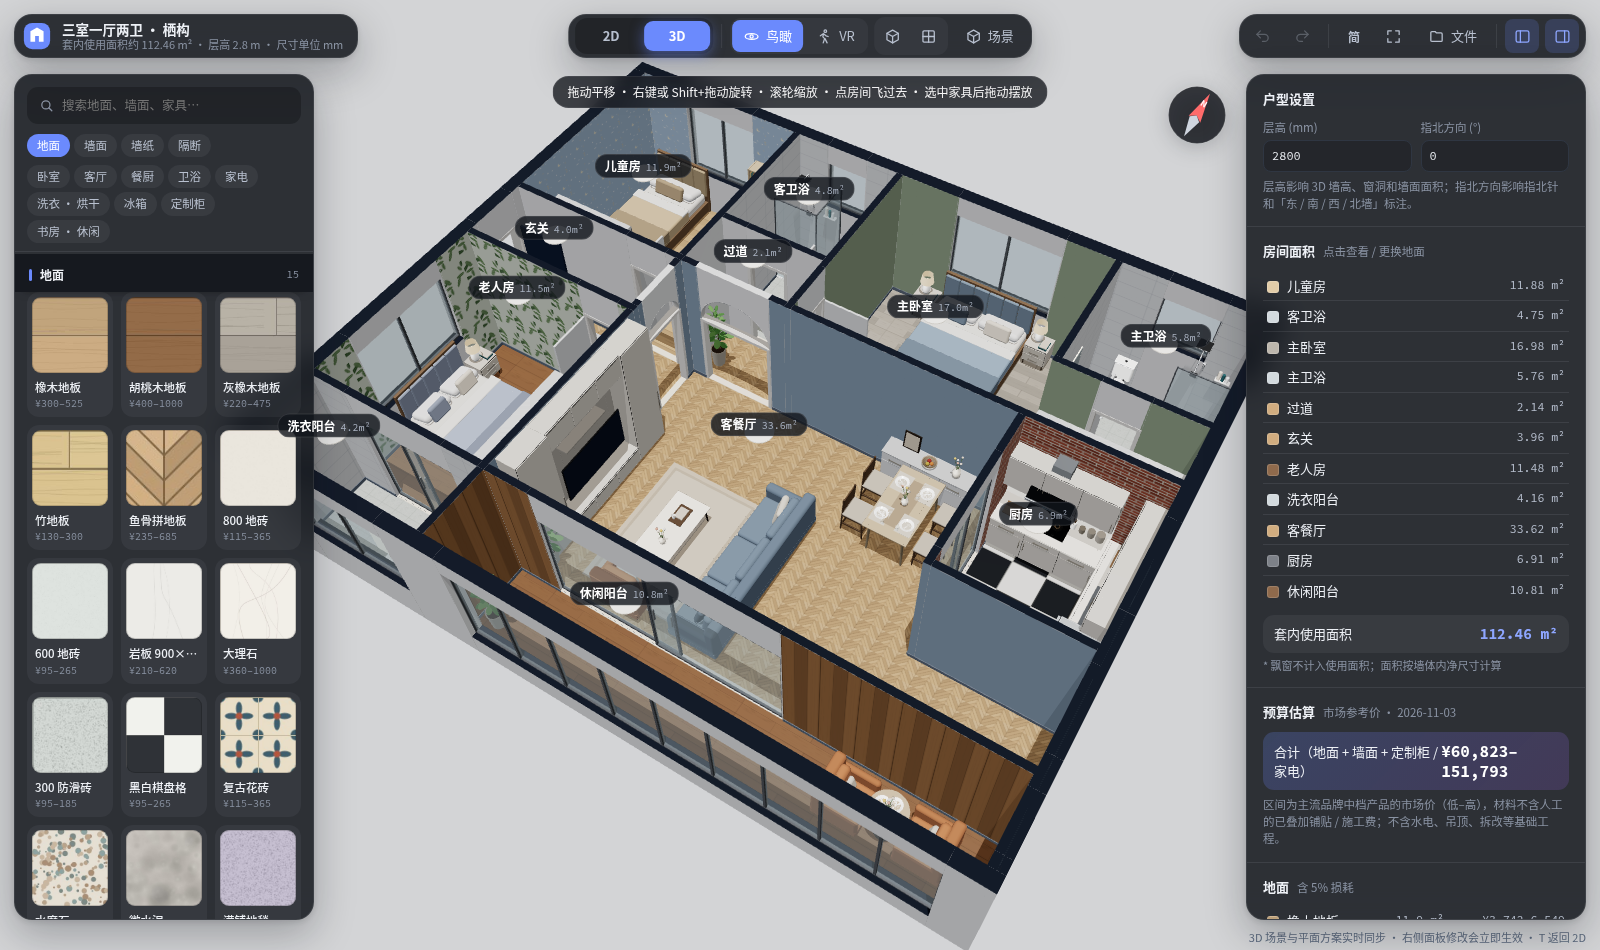
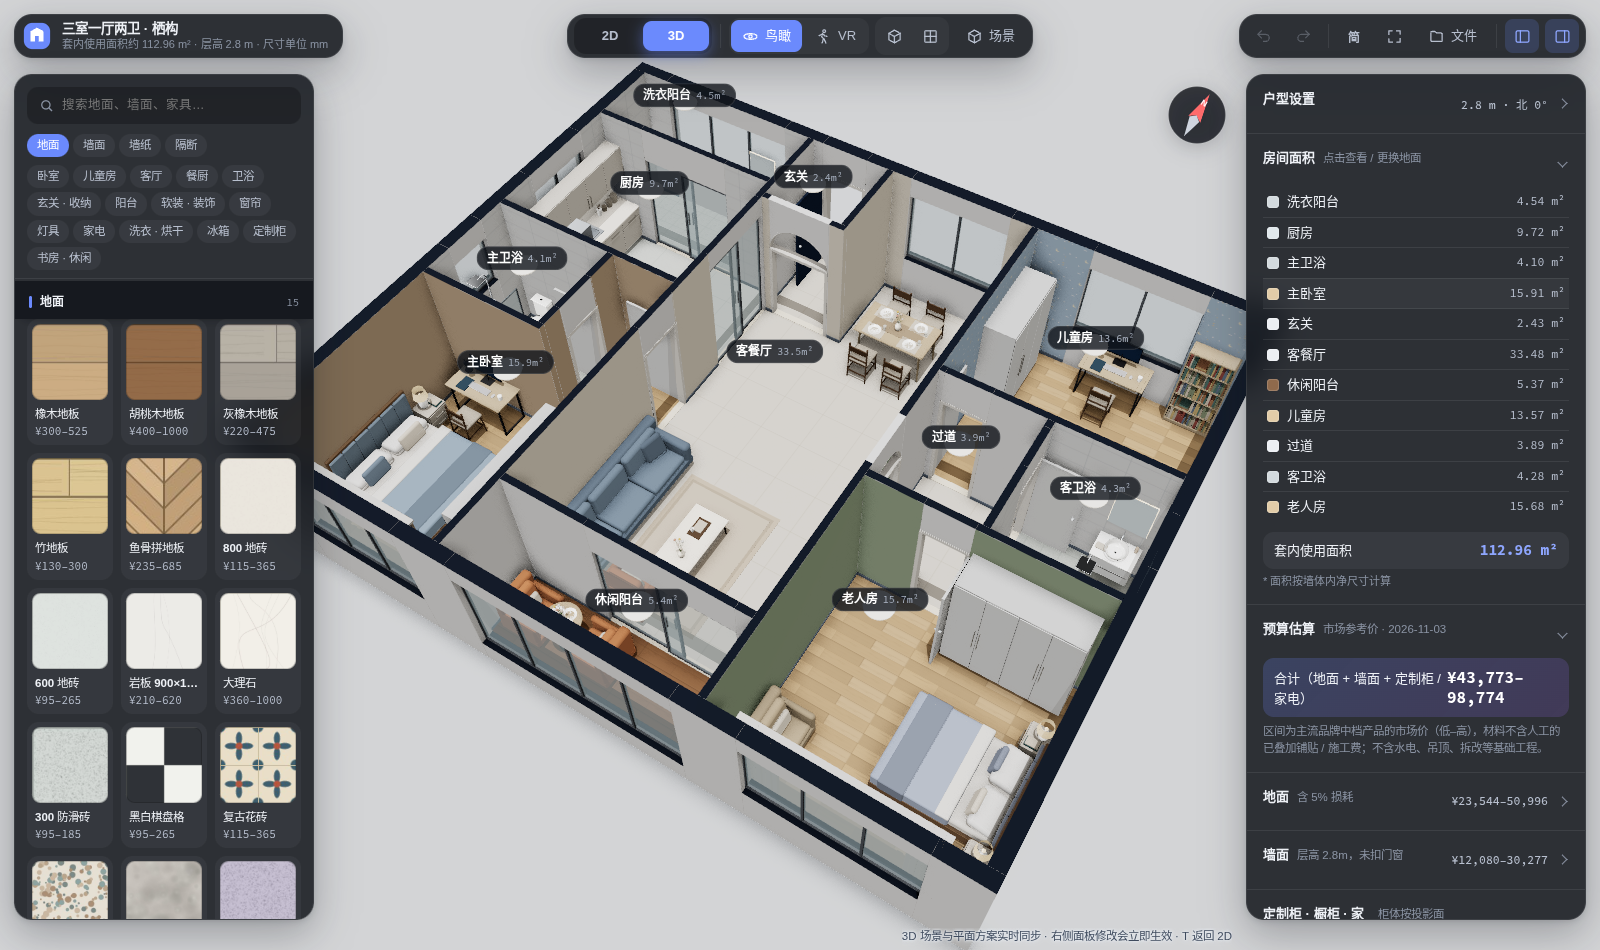
重新设计默认户型；检查不再把台面上的水槽 / 灶台报成重叠
- 主卧、客厅、老人房朝南；入户门改到北墙，玄关不再开卧室门
- 厨房紧挨玄关，洗衣阳台从厨房进，不再穿过卧室
- 东侧小过道连接儿童房、老人房和客卫；客卫门与过道口错开，从客餐厅看不到
- 家具重摆：通道留足净宽，床头不在窗下，餐椅能拉开，推拉门前不堆东西
- 默认方案加上窗帘、油烟机、晾衣架、餐厅吊灯和几面墙的颜色
- 重拍 README 截图

diff --git a/src/data.js b/src/data.js
@@ -1,9 +1,12 @@
 
 /* ============================================================
  *  默认户型（单位 mm，原点 = 左上角外墙内皮；x 向右、y 向下，上北下南）
- *  约 100 m²：三室 + 客餐厅 + 两卫 + 玄关 + 洗衣阳台 + 南向休闲阳台
- *  横向：3300 | 120 | 1980 | 120 | 3960 | 120 | 2400 = 12000
- *  纵向：3600 | 120 | 1200 | 120 | 3480 | 120 | 1260 = 9900（西侧）
+ *  套内约 113 m²：三室 + 客餐厅 + 两卫 + 玄关 + 洗衣阳台 + 南向阳台
+ *  西列（3600）：洗衣阳台 / 厨房 / 主卫 / 主卧（朝南）
+ *  中列（4260）：玄关（北墙入户）+ 餐区 / 客厅 / 阳台（朝南）
+ *  东列（3900）：儿童房 / 过道 + 客卫 / 老人房（朝南）
+ *  横向：3600 | 120 | 1500 | 120 | 2640 | 120 | 3900 = 12000
+ *  纵向：1260 | 120 | 2700 | 120 | 1800 | 120 | 3780 = 9900（西列）；3480 | 120 | 2160 | 120 | 4020 = 9900（东列）
  * ============================================================ */
 const XW = 240;                                                     // 外墙厚
 /** 一段墙去掉洞口后的若干矩形；horiz: 沿 x 方向；[c0, c1] 墙厚方向坐标；holes: 沿墙方向的 [a, b] 洞口 */
@@ -15,10 +18,10 @@ function run(horiz, c0, c1, a0, a1, type, holes = []){
 }
 // 洞口（沿墙方向的区间）
 const H = {
-  top:[[900, 2400], [4000, 4800], [6600, 8600], [10400, 11400]],    // 儿童房 / 客卫 / 主卧 / 主卫 北窗
-  bottom:[[600, 2700], [3800, 11600]],                              // 洗衣阳台 / 休闲阳台 南窗
-  left:[[3900, 4800], [5800, 7800]],                                // 入户门 / 老人房西窗
-  right:[[4300, 6000], [6900, 8300], [8800, 9700]],                 // 厨房 / 客餐厅 / 阳台 东窗
+  top:[[500, 3100], [3900, 4800], [5700, 7600], [9100, 11100]],     // 洗衣阳台北窗 / 入户门 / 餐区北窗 / 儿童房北窗
+  bottom:[[600, 3000], [4000, 7700], [8700, 11400]],                // 主卧 / 阳台 / 老人房 南窗
+  left:[[2000, 3400], [4700, 5500]],                                // 厨房 / 主卫 西窗
+  right:[[4200, 5200]],                                             // 客卫东窗
 };
 // 墙体：[x0,y0,x1,y1,类型]  b=承重 e=外墙 n=可拆非承重 low=矮墙
 export const WALLS = [
@@ -27,64 +30,61 @@ export const WALLS = [
   ...run(true, 9900, 9900 + XW, -XW, 12000 + XW, 'e', H.bottom),
   ...run(false, -XW, 0, 0, 9900, 'e', H.left),
   ...run(false, 12000, 12000 + XW, 0, 9900, 'e', H.right),
-  // 北侧：儿童房 | 客卫 | 主卧 | 主卫
-  [3300, 0, 3420, 3600, 'b'],
-  ...run(true, 2400, 2520, 3420, 5400, 'n', [[3900, 4700]]),         // 客卫门
-  ...run(false, 5400, 5520, 0, 3720, 'b', [[2640, 3480]]),           // 主卧门
-  [9480, 0, 9600, 2400, 'n'],
-  ...run(true, 2400, 2520, 9480, 12000, 'n', [[10300, 11100]]),      // 主卫门（主卧衣帽区进）
-  ...run(true, 3600, 3720, 0, 3420, 'n', [[2300, 3100]]),            // 儿童房门
-  ...run(true, 3600, 3720, 3420, 5400, 'n', [[3700, 5100]]),         // 过道 → 客餐厅 门洞
-  [5520, 3600, 12000, 3720, 'n'],
-  // 西侧：玄关 / 老人房 / 洗衣阳台
-  ...run(false, 3300, 3420, 3720, 4920, 'n', [[3900, 4800]]),        // 玄关 → 客餐厅 门洞
-  ...run(true, 4920, 5040, 0, 3420, 'n', [[2300, 3100]]),            // 老人房门
-  [3300, 5040, 3420, 8640, 'b'],
-  ...run(true, 8520, 8640, 0, 3300, 'n', [[700, 2600]]),             // 洗衣阳台推拉门
-  [3300, 8640, 3420, 9900, 'b'],
-  // 东侧：厨房 / 阳台
-  ...run(false, 9480, 9600, 3720, 6720, 'n', [[4500, 6400]]),        // 厨房推拉门
-  [9600, 6600, 12000, 6720, 'n'],
-  ...run(true, 8520, 8640, 3420, 12000, 'n', [[4200, 8400]]),        // 阳台推拉门
+  // 两道纵向承重墙：西列 | 中列 | 东列
+  ...run(false, 3600, 3720, 0, 9900, 'b', [[1780, 3380], [4400, 5300]]),   // 厨房推拉门 / 主卧门
+  ...run(false, 7980, 8100, 0, 9900, 'b', [[4650, 5650]]),                 // 客餐厅 → 过道 门洞
+  // 西列：洗衣阳台 / 厨房 / 主卫 / 主卧
+  ...run(true, 1260, 1380, 0, 3600, 'n', [[900, 2700]]),             // 洗衣阳台推拉门（从厨房进）
+  [0, 4080, 3600, 4200, 'n'],
+  [0, 6000, 2400, 6120, 'n'],
+  ...run(false, 2280, 2400, 4200, 6000, 'n', [[4800, 5600]]),        // 主卫门（主卧进门过道一侧）
+  // 中列：玄关 / 客餐厅 / 阳台
+  [5220, 0, 5340, 1620, 'n'],
+  ...run(true, 1620, 1740, 3720, 5340, 'n', [[3850, 5050]]),         // 玄关 → 客餐厅 门洞
+  ...run(true, 8520, 8640, 3720, 7980, 'n', [[5200, 7700]]),         // 阳台推拉门
+  // 东列：儿童房 / 过道 + 客卫 / 老人房
+  ...run(true, 3480, 3600, 8100, 12000, 'n', [[8200, 9000]]),        // 儿童房门
+  ...run(true, 5760, 5880, 8100, 12000, 'n', [[9050, 9850]]),        // 老人房门（与儿童房门错开）
+  ...run(false, 9900, 10020, 3600, 5760, 'n', [[3750, 4550]]),       // 客卫门（偏北，从客餐厅看不到）
 ];
 // 窗：[x0,y0,x1,y1, 窗台高 m]
 const win = (horiz, c0, c1, [a, b], sill) => horiz ? [a, c0, b, c1, sill] : [c0, a, c1, b, sill];
 export const WINS = [
-  win(true, -XW, 0, H.top[0], .9), win(true, -XW, 0, H.top[1], 1.4), win(true, -XW, 0, H.top[2], .9), win(true, -XW, 0, H.top[3], 1.4),
-  win(true, 9900, 9900 + XW, H.bottom[0], .9), win(true, 9900, 9900 + XW, H.bottom[1], .5),
-  win(false, -XW, 0, H.left[1], .9),
-  win(false, 12000, 12000 + XW, H.right[0], 1.0), win(false, 12000, 12000 + XW, H.right[1], .9), win(false, 12000, 12000 + XW, H.right[2], .5),
+  win(true, -XW, 0, H.top[0], .9), win(true, -XW, 0, H.top[2], .9), win(true, -XW, 0, H.top[3], .9),
+  win(true, 9900, 9900 + XW, H.bottom[0], .9), win(true, 9900, 9900 + XW, H.bottom[1], .5), win(true, 9900, 9900 + XW, H.bottom[2], .9),
+  win(false, -XW, 0, H.left[0], 1.0), win(false, -XW, 0, H.left[1], 1.4),
+  win(false, 12000, 12000 + XW, H.right[0], 1.4),
 ];
 // 平开门：洞口、铰点、关闭方向、开启方向、门宽（门洞 style:'arch'）
 export const DOORS = [
-  {name:'入户门', rect:[-XW, 3900, 0, 4800], h:[0, 3900], c:[0, 1], o:[1, 0], len:900, entry:true},
-  {name:'儿童房门', rect:[2300, 3600, 3100, 3720], h:[2300, 3600], c:[1, 0], o:[0, -1], len:800},
-  {name:'客卫门', rect:[3900, 2400, 4700, 2520], h:[4700, 2400], c:[-1, 0], o:[0, -1], len:800},
-  {name:'主卧门', rect:[5400, 2640, 5520, 3480], h:[5520, 2640], c:[0, 1], o:[1, 0], len:840},
-  {name:'主卫门', rect:[10300, 2400, 11100, 2520], h:[10300, 2400], c:[1, 0], o:[0, -1], len:800},
-  {name:'老人房门', rect:[2300, 4920, 3100, 5040], h:[2300, 5040], c:[1, 0], o:[0, 1], len:800},
-  {name:'拱形门洞', rect:[3700, 3600, 5100, 3720], h:[3700, 3720], c:[1, 0], o:[0, 1], len:1400, style:'arch'},
-  {name:'拱形门洞', rect:[3300, 3900, 3420, 4800], h:[3420, 3900], c:[0, 1], o:[1, 0], len:900, style:'arch'},
+  {name:'入户门', rect:[3900, -XW, 4800, 0], h:[3900, 0], c:[1, 0], o:[0, 1], len:900, entry:true},
+  {name:'主卧门', rect:[3600, 4400, 3720, 5300], h:[3600, 4400], c:[0, 1], o:[-1, 0], len:900},
+  {name:'主卫门', rect:[2280, 4800, 2400, 5600], h:[2280, 4800], c:[0, 1], o:[-1, 0], len:800},
+  {name:'儿童房门', rect:[8200, 3480, 9000, 3600], h:[8200, 3480], c:[1, 0], o:[0, -1], len:800},
+  {name:'老人房门', rect:[9050, 5760, 9850, 5880], h:[9850, 5880], c:[-1, 0], o:[0, 1], len:800},
+  {name:'客卫门', rect:[9900, 3750, 10020, 4550], h:[10020, 3750], c:[0, 1], o:[1, 0], len:800},
+  {name:'拱形门洞', rect:[3850, 1620, 5050, 1740], h:[3850, 1740], c:[1, 0], o:[0, 1], len:1200, style:'arch'},
+  {name:'拱形门洞', rect:[7980, 4650, 8100, 5650], h:[8100, 4650], c:[0, 1], o:[1, 0], len:1000, style:'arch'},
 ];
 // 推拉门
 export const SLIDES = [
-  {rect:[700, 8520, 2600, 8640], v:false},
-  {rect:[4200, 8520, 8400, 8640], v:false},
-  {rect:[9480, 4500, 9600, 6400], v:true},
+  {rect:[900, 1260, 2700, 1380], v:false},
+  {rect:[5200, 8520, 7700, 8640], v:false},
+  {rect:[3600, 1780, 3720, 3380], v:true},
 ];
 export const R = (x0,y0,x1,y1) => [[x0,y0],[x1,y0],[x1,y1],[x0,y1]];
 export const ROOMS = [
-  {id:'kid', name:'儿童房', poly:R(0, 0, 3300, 3600), mat:'wood', at:[1650, 2300]},
-  {id:'gbath', name:'客卫浴', poly:R(3420, 0, 5400, 2400), mat:'antislip', at:[4400, 1300]},
-  {id:'master', name:'主卧室', poly:[[5520, 0], [9480, 0], [9480, 2520], [12000, 2520], [12000, 3600], [5520, 3600]], mat:'wood', at:[7500, 2600]},
-  {id:'mbath', name:'主卫浴', poly:R(9600, 0, 12000, 2400), mat:'antislip', at:[10800, 1300]},
-  {id:'hall', name:'过道', poly:R(3420, 2520, 5400, 3600), mat:'tile800', at:[4400, 3060]},
-  {id:'foyer', name:'玄关', poly:R(0, 3720, 3300, 4920), mat:'tile800', at:[1300, 4320]},
-  {id:'elder', name:'老人房', poly:R(0, 5040, 3300, 8520), mat:'wood', at:[1650, 5700]},
-  {id:'laundry', name:'洗衣阳台', poly:R(0, 8640, 3300, 9900), mat:'antislip', at:[1100, 9270]},
-  {id:'living', name:'客餐厅', poly:[[3420, 3720], [9480, 3720], [9480, 6720], [12000, 6720], [12000, 8520], [3420, 8520]], mat:'tile800', at:[6400, 6000]},
-  {id:'kitchen', name:'厨房', poly:R(9600, 3720, 12000, 6600), mat:'tile600', at:[10500, 5300]},
-  {id:'balcony', name:'休闲阳台', poly:R(3420, 8640, 12000, 9900), mat:'walnut', at:[6400, 9270]},
+  {id:'laundry', name:'洗衣阳台', poly:R(0, 0, 3600, 1260), mat:'antislip', at:[1150, 330]},
+  {id:'kitchen', name:'厨房', poly:R(0, 1380, 3600, 4080), mat:'tile600', at:[2000, 2600]},
+  {id:'mbath', name:'主卫浴', poly:R(0, 4200, 2280, 6000), mat:'antislip', at:[1300, 5150]},
+  {id:'master', name:'主卧室', poly:[[2400, 4200], [3600, 4200], [3600, 9900], [0, 9900], [0, 6120], [2400, 6120]], mat:'wood', wall:'paint_latte', at:[2500, 7000]},
+  {id:'foyer', name:'玄关', poly:R(3720, 0, 5220, 1620), mat:'tile800', at:[4300, 1000]},
+  {id:'living', name:'客餐厅', poly:[[5340, 0], [7980, 0], [7980, 8520], [3720, 8520], [3720, 1740], [5340, 1740]], mat:'tile800', wall:'paint_warm', at:[5850, 4700]},
+  {id:'balcony', name:'休闲阳台', poly:R(3720, 8640, 7980, 9900), mat:'walnut', at:[6600, 9270]},
+  {id:'kid', name:'儿童房', poly:R(8100, 0, 12000, 3480), mat:'wood', wall:'wp_star', at:[9900, 1900]},
+  {id:'hall', name:'过道', poly:R(8100, 3600, 9900, 5760), mat:'tile800', at:[9000, 4680]},
+  {id:'gbath', name:'客卫浴', poly:R(10020, 3600, 12000, 5760), mat:'antislip', at:[11000, 4500]},
+  {id:'elder', name:'老人房', poly:R(8100, 5880, 12000, 9900), mat:'wood', wall:'paint_sage', at:[9300, 7600]},
 ];
 // 地面材料：名称 / 色票 / 贴图一个循环的实际尺寸 sx×sy (m)；贴图画法见 src/materials.js，参考价见 src/pricing.js
 export const MATS = {
@@ -246,40 +246,44 @@ export const uid = () => 'f' + Date.now().toString(36) + (_n++);
 export const F = (type,name,cx,cy,w,d,rot=0,color) => ({id:uid(),type,name,cx,cy,w,d,rot,color:color||typeColor(type)});
 
 export function defaultFurniture(){ return [
-  // 儿童房
-  F('bed','单人床',700,1000,1200,2000,0,'#d9c2a0'), F('desk','书桌',3000,1100,1200,600,90), F('chair','椅子',2480,1100,450,480,270),
-  F('wardrobe','衣柜',1000,3300,1600,600,180), F('bookshelf','书架',2850,150,800,300),
-  // 客卫
-  F('shower','淋浴房',3870,450,900,900), F('toilet','马桶',4950,350,400,700), F('vanity','浴室柜',5160,1500,700,480,90),
-  // 主卧（含衣帽区）
-  F('bed','双人床',7500,1000,1800,2000,0,'#9fb4c7'), F('nightstand','床头柜',6350,220,450,400), F('nightstand','床头柜',8650,220,450,400),
-  F('wardrobe','衣柜',10800,3300,2400,600,180), F('desk','梳妆台',7800,3300,1200,600,180), F('chair','椅子',7800,2780,450,480),
+  // 洗衣阳台：洗衣机 + 洗衣池靠北窗，头顶晾衣架
+  F('washer','洗衣机',3250,300,600,600), F('vanity','洗衣池',2600,250,600,500), F('dryrack','升降晾衣架',1300,950,2000,450),
+  // 厨房：L 形台面（西窗下水槽、南墙灶台），冰箱在进门手边
+  F('counter','橱柜台面',300,2730,2700,600,270), F('counter','橱柜台面',1500,3780,1800,600,180),
+  F('ksink','水槽',225,2700,800,450,270), F('stove','燃气灶',1500,3855,750,450,180), F('hood','抽油烟机',1500,3830,900,500,180),
+  F('fridge','冰箱',3250,3730,700,700,180),
   // 主卫
-  F('shower','淋浴房',11550,450,900,900), F('toilet','马桶',10200,350,400,700), F('vanity','浴室柜',9850,1600,800,500,270),
-  // 过道 / 玄关
-  F('plant','绿植',3700,3300,500,500), F('shoecab','鞋柜',1600,4745,1300,350,180),
-  // 老人房
-  F('bed','双人床',1000,6800,1500,2000,270,'#b8c4d9'), F('wardrobe','衣柜',3000,7300,2000,600,90), F('nightstand','床头柜',250,5800,450,400,270),
-  // 洗衣阳台
-  F('washer','洗衣机',2900,9600,600,600,180), F('vanity','洗衣池',2200,9650,600,500,180),
-  // 厨房
-  F('counter','橱柜台面',11700,4860,2280,600,90), F('counter','橱柜台面',10500,4020,1800,600),
-  F('stove','燃气灶',10400,3945,750,450), F('ksink','水槽',11775,5000,800,450,90), F('fridge','冰箱',11650,6250,700,700,90),
-  // 客餐厅：餐区（东侧，靠厨房）
-  F('table','餐桌',8300,4750,1400,800,90), F('cabinet','餐边柜',8300,3895,1600,350),
-  F('chair','餐椅',7640,4420,450,480,270), F('chair','餐椅',7640,5080,450,480,270),
-  F('chair','餐椅',8960,4420,450,480,90), F('chair','餐椅',8960,5080,450,480,90),
-  // 客餐厅：客厅区（西侧电视墙）
-  F('rug','地毯',5200,6900,2600,1800,90), F('tvstand','电视柜',3620,6900,2400,400,270), F('sofa','三人沙发',6600,6900,3000,900,90),
-  F('coffeetable','茶几',5200,6900,1300,650,90), F('armchair','单人沙发',5200,8050,850,850,180),
-  F('plant','绿植',3750,8250,500,500), F('plant','绿植',9200,8250,500,500),
+  F('toilet','马桶',500,4550,400,700), F('shower','淋浴房',450,5550,900,900), F('vanity','浴室柜',1600,5750,800,500,180),
+  // 主卧：床头靠西墙，衣柜靠东墙，北墙梳妆台
+  F('bed','双人床',1000,8250,1800,2000,270,'#9fb4c7'), F('nightstand','床头柜',200,7100,450,400,270), F('nightstand','床头柜',200,9400,450,400,270),
+  F('wardrobe','衣柜',3300,8100,2400,600,90), F('desk','梳妆台',900,6420,1200,600), F('chair','椅子',900,6960,450,480,180),
+  F('drapes','布帘 + 纱帘',1800,9810,2700,180,180),
+  // 玄关
+  F('shoecab','鞋柜',5045,800,1300,350,90),
+  // 客餐厅：餐区（北窗下的凹位）
+  F('table','餐桌',6400,1500,1400,800), F('cabinet','餐边柜',7805,900,1600,350,90), F('pendant','餐厅吊灯（一字）',6400,1500,1200,70),
+  F('chair','餐椅',6050,860,450,480), F('chair','餐椅',6750,860,450,480),
+  F('chair','餐椅',6050,2140,450,480,180), F('chair','餐椅',6750,2140,450,480,180),
+  // 客餐厅：客厅区（沙发靠西墙，电视柜靠东墙）
+  F('rug','地毯',5600,6950,2600,1800,90), F('sofa','三人沙发',4170,6950,3000,900,270), F('tvstand','电视柜',7780,6950,2400,400,90),
+  F('coffeetable','茶几',5600,6950,1300,650,90), F('armchair','单人沙发',5300,8050,850,850,180),
+  F('plant','绿植',7700,4300,500,500),
   // 休闲阳台
-  F('roundtable','茶桌',10500,9270,600,600), F('armchair','休闲椅',9850,9270,750,750,270,'#d08c60'),
-  F('armchair','休闲椅',11150,9270,750,750,90,'#d08c60'), F('plant','绿植',3750,9600,500,500),
+  F('roundtable','茶桌',4900,9270,600,600), F('armchair','休闲椅',4250,9270,750,750,270,'#d08c60'),
+  F('armchair','休闲椅',5550,9270,750,750,90,'#d08c60'), F('plant','绿植',7700,9600,500,500),
+  // 儿童房：北窗下书桌，床靠东南角
+  F('bed','单人床',11000,2780,1200,2000,90,'#d9c2a0'), F('desk','书桌',10100,300,1200,600), F('chair','椅子',10100,840,450,480,180),
+  F('wardrobe','衣柜',8400,1100,1600,600,270), F('bookshelf','书架',11550,150,800,300),
+  // 客卫
+  F('vanity','浴室柜',11550,3840,700,480), F('toilet','马桶',10600,5410,400,700,180), F('shower','淋浴房',11550,5310,900,900),
+  // 老人房：出门两步就是客卫
+  F('bed','双人床',11000,8150,1500,2000,90,'#b8c4d9'), F('nightstand','床头柜',11800,7150,450,400,90), F('nightstand','床头柜',11800,9150,450,400,90),
+  F('wardrobe','衣柜',10900,6180,2000,600), F('armchair','休闲椅',8550,8900,750,750,270,'#c9b79c'),
+  F('drapes','布帘 + 纱帘',10050,9810,3000,180,180),
 ];}
 
 /* 户型（plan）：墙 / 窗 / 门 / 推拉门 / 房间 / 尺寸链 / 入户标识 / 过梁 / 漫游起点 / 画布范围。
- * 默认就是上面这套三室两厅；「导入户型图」会生成同结构的新 plan 替换它。 */
+ * 默认就是上面这套三室；「导入户型图」会生成同结构的新 plan 替换它。 */
 export function defaultPlan(){
   return {
     v:1, title:null,
@@ -287,13 +291,13 @@ export function defaultPlan(){
     doors:structuredClone(DOORS), slides:structuredClone(SLIDES),
     rooms:structuredClone(ROOMS),
     // 尺寸链：[横向?, 位置, 起点, 各段长度]
-    dims:[[true, -750, 0, [3300, 120, 1980, 120, 3960, 120, 2400]], [true, -1250, 0, [12000]],
-          [true, 10650, 0, [3300, 120, 8580]], [true, 11150, 0, [12000]],
-          [false, -800, 0, [3600, 120, 1200, 120, 3480, 120, 1260]], [false, -1300, 0, [9900]],
-          [false, 12750, 0, [2400, 120, 1080, 120, 2880, 120, 1800, 120, 1260]], [false, 13250, 0, [9900]]],
-    entryMark:{d:'M-1500 4350H-450M-650 4195L-400 4350L-650 4505', tx:-1480, ty:4195},
+    dims:[[true, -750, 0, [3600, 120, 1500, 120, 2640, 120, 3900]], [true, -1250, 0, [12000]],
+          [true, 10650, 0, [3600, 120, 4260, 120, 3900]], [true, 11150, 0, [12000]],
+          [false, -800, 0, [1260, 120, 2700, 120, 1800, 120, 3780]], [false, -1300, 0, [9900]],
+          [false, 12750, 0, [3480, 120, 2160, 120, 4020]], [false, 13250, 0, [9900]]],
+    entryMark:{d:'M4350 -600V-290M4210 -440L4350 -270L4490 -440', tx:4470, ty:-380},
     lintels:[],
-    walkStart:{x:-700, y:4350, lx:2000, ly:4350},                             // 入户门外
+    walkStart:{x:4350, y:-700, lx:4350, ly:2000},                             // 入户门外
     bounds:{x:-1850, y:-1750, w:15600, h:13400},
   };
 }
